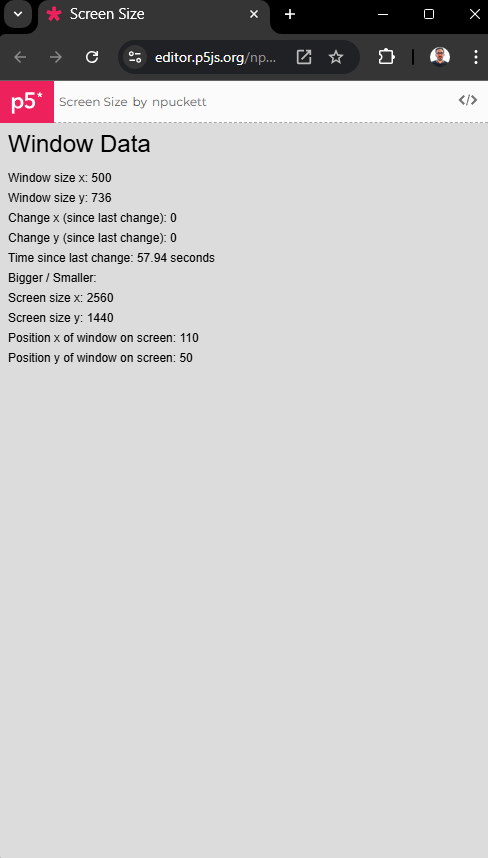
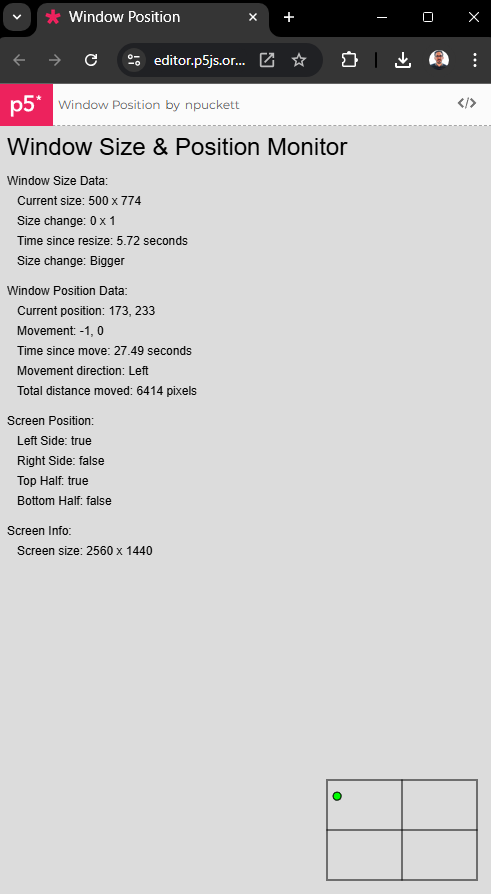
updated window position and size file

diff --git a/Readme.md b/Readme.md
@@ -7,7 +7,7 @@
   - [Multi Touch Data](#multi-touch-data)
   - [Microphone Data](#microphone-data)
   - [Phone Sensors - Accelerometer + Gyroscope](#phone-sensors---accelerometer--gyroscope)
-  - [Window Size](#window-size)
+  - [Window Size and Position](#window-size-and-position)
 
 ## Experimental UX
 
@@ -168,7 +168,7 @@ Note the meta tag in the index.html page that disables the default multitouch zo
 - shakeHistory: Array - Stores timestamps of recent shakes
 - shakeRate: Number - Calculates the rate of shakes per second
 
-### Window Size
+### Window Size and Position
 
 <table>
 <tr>
@@ -179,18 +179,37 @@ Note the meta tag in the index.html page that disables the default multitouch zo
 
 Works With: Laptop MacOS | Laptop Windows
 
-This sketch demonstrates how to interact with window-related variables and display them on the canvas. It updates in real-time when the window is resized and allows toggling the data display with the spacebar.
+This sketch combines monitoring of both window size and position, displaying real-time data about how the window changes and moves on screen. It tracks window size changes, monitors window position, shows position relative to screen quadrants, and updates in real-time for both movement and resizing. The data display can be toggled with the spacebar.
 
 [Editor Link](https://editor.p5js.org/npuckett/sketches/jJ3wX1yef)
 
 [Fullscreen Link](https://editor.p5js.org/npuckett/full/jJ3wX1yef)
 
 **Variables:**
+Size tracking:
 - lastWidth: Number - Stores the previous window width
 - lastHeight: Number - Stores the previous window height
-- lastChangeTime: Number - Timestamp of the last window resize
+- lastSizeChangeTime: Number - Timestamp of the last window resize
 - changeX: Number - Change in window width since last resize
 - changeY: Number - Change in window height since last resize
-- timeSinceChange: Number - Time elapsed since the last window resize in seconds
+- timeSinceSizeChange: Number - Time elapsed since the last window resize in seconds
 - biggerOrSmaller: String - Indicates if the window got bigger or smaller
+
+Position tracking:
+- lastX: Number - Stores the previous window X position
+- lastY: Number - Stores the previous window Y position
+- lastMoveTime: Number - Timestamp of the last window movement
+- moveX: Number - Change in X position since last movement
+- moveY: Number - Change in Y position since last movement
+- timeSinceMove: Number - Time elapsed since the last movement in seconds
+- moveDirection: String - Indicates the direction of window movement
+- totalDistanceMoved: Number - Total distance the window has moved in pixels
+
+Screen position:
+- leftSide: Boolean - Indicates if window is on the left side of screen
+- rightSide: Boolean - Indicates if window is on the right side of screen
+- topHalf: Boolean - Indicates if window is in the top half of screen
+- bottomHalf: Boolean - Indicates if window is in the bottom half of screen
+
+Display:
 - showData: Boolean - Controls the visibility of the data display
